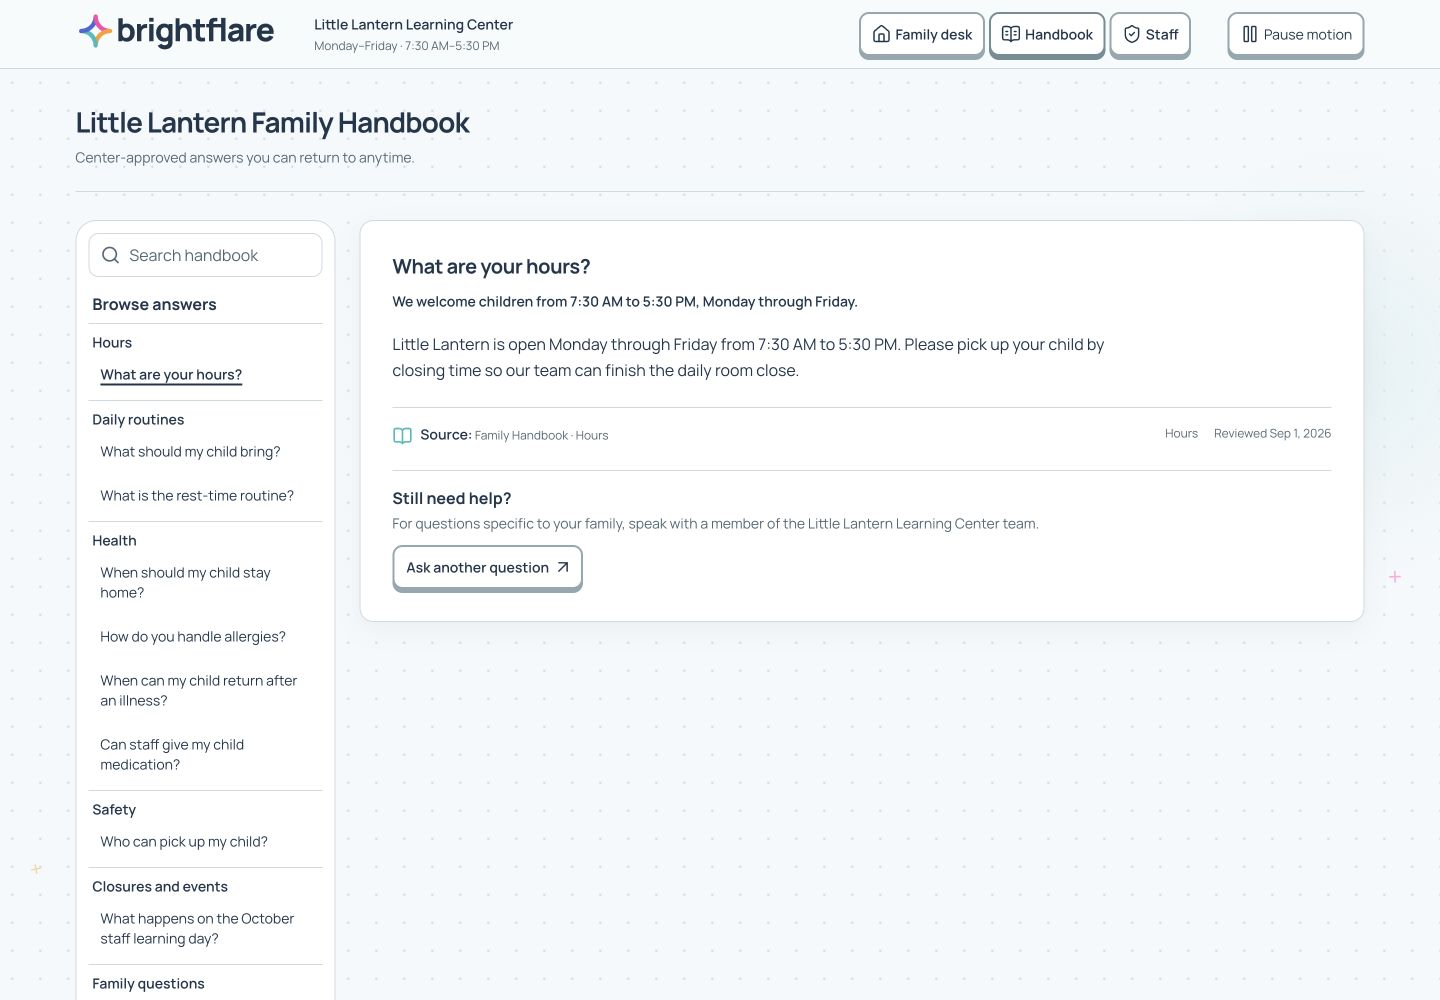
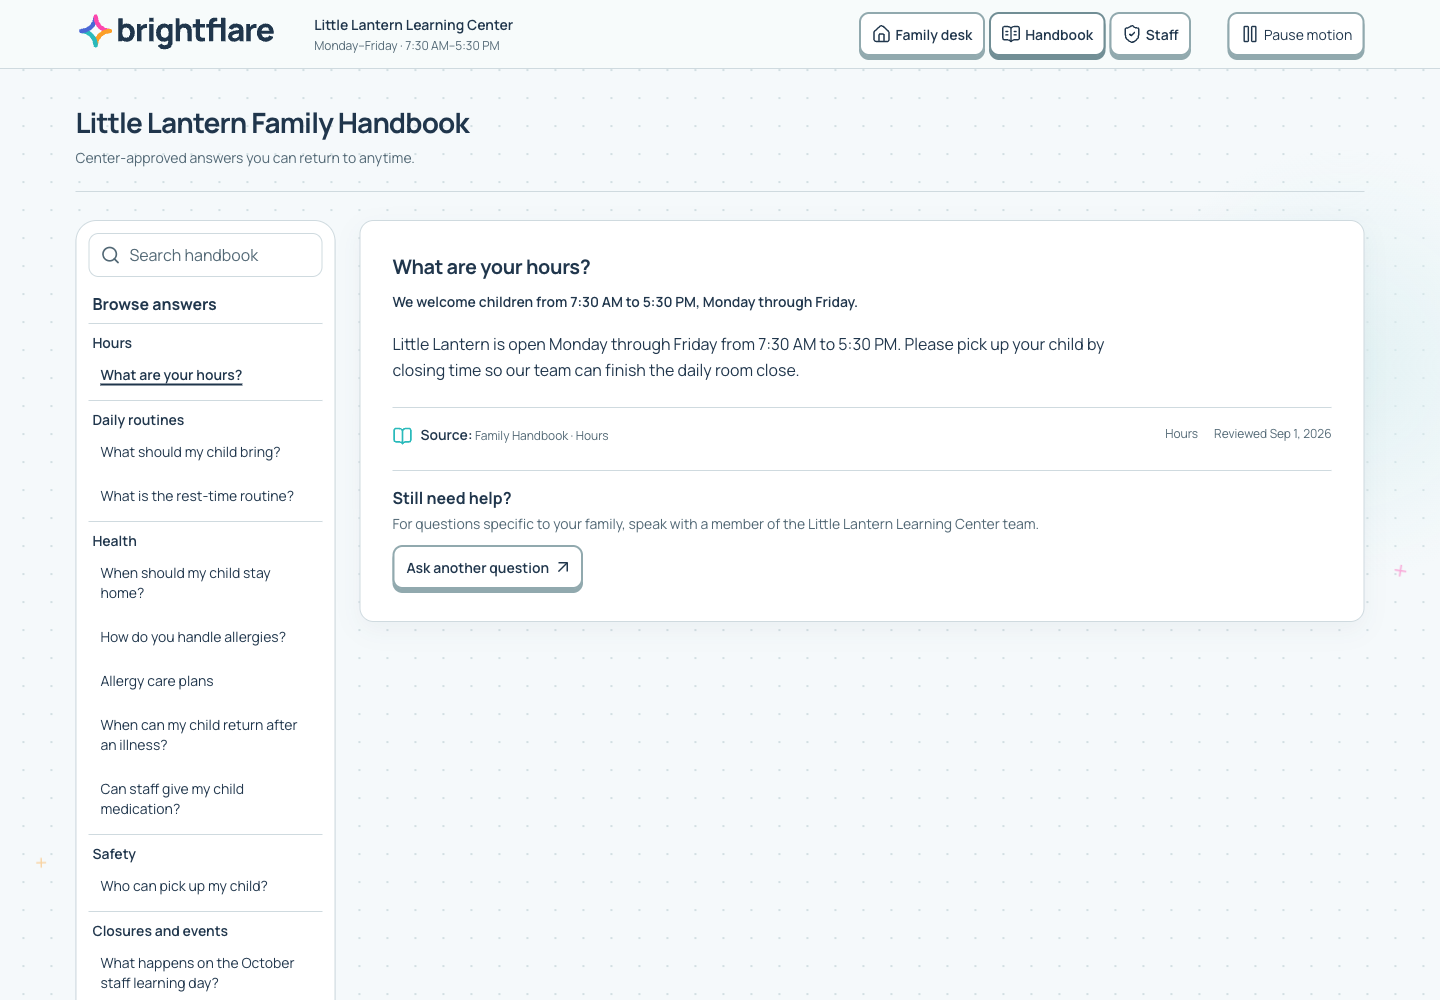
Refresh README story and responsive screenshots

diff --git a/README.md b/README.md
@@ -2,7 +2,7 @@
   <img src="public/assets/brightflare-logo-full.svg" alt="brightflare" width="360" />
 </p>
 
-**A calmer front desk for childcare families.** brightflare answers routine questions from a center-approved handbook, shows families where an answer came from, and gives staff a clear path to review the questions the handbook could not resolve.
+**A calmer front desk for childcare families.** I designed brightflare for parents using the center’s shared iPad and staff maintaining trusted answers. At the front desk, the first screen keeps common questions in view without unnecessary scrolling; parents can open approved FAQs or ask something new, then clear the session for the next family. Staff see public question trends and gaps, improve approved guidance, and choose which answers to feature.
 
 **Try it:** [Family front desk](https://brightflare.sprioleau.dev/) · [Family handbook](https://brightflare.sprioleau.dev/handbook) · [Staff workspace](https://brightflare.sprioleau.dev/admin)
 
@@ -14,38 +14,43 @@
 
 ### Family desk
 
-![brightflare family desk on desktop](https://brightflare.sprioleau.dev/screenshots/parent-desktop.png?v=20260924-polish)
+![brightflare family desk on desktop](https://brightflare.sprioleau.dev/screenshots/parent-desktop.png?v=20260924-final)
 
-![brightflare family desk on a phone](https://brightflare.sprioleau.dev/screenshots/parent-mobile.png?v=20260924-polish)
+<p align="left">
+  <img src="https://brightflare.sprioleau.dev/screenshots/parent-mobile.png?v=20260924-final" alt="brightflare family desk on a phone with responsive menu closed" width="280" />
+  <img src="https://brightflare.sprioleau.dev/screenshots/parent-mobile-menu.png?v=20260924-final" alt="brightflare family desk on a phone with responsive navigation open" width="280" />
+</p>
 
 ### Staff workspace
 
-![brightflare staff dashboard](https://brightflare.sprioleau.dev/screenshots/admin-dashboard.png?v=20260924-polish)
+![brightflare staff dashboard](https://brightflare.sprioleau.dev/screenshots/admin-dashboard.png?v=20260924-final)
 
 ### Family handbook
 
-![brightflare family handbook](https://brightflare.sprioleau.dev/screenshots/handbook-desktop.png?v=20260924-polish)
+![brightflare family handbook](https://brightflare.sprioleau.dev/screenshots/handbook-desktop.png?v=20260924-final)
 
 These captures show the current app. Any standalone HTML style explorations are design proposals and are not part of the live interface.
 
 ## How it helps
 
-- **Families get a useful first answer.** Popular questions expand fully in their own cards. New questions and follow-ups stay together in a conversation with handbook sources and review dates. Clear chat starts a fresh session for the next family.
-- **The app says when it does not know.** Missing, unclear, or sensitive policy questions go to staff instead of being guessed. Dated center updates can clarify a general handbook policy for a specific period.
+- **Families get a useful first answer.** Approved common questions are available on the shared iPad without an AI call. New questions and follow-ups stay together in a conversation. Supported answers link to a handbook or staff-approved source and show its review date; Clear chat starts a fresh session for the next family.
+- **The app says when it does not know.** Missing, unclear, or sensitive policy questions go to staff instead of being guessed or shown with an unsupported source. Dated center updates can clarify a general handbook policy for a specific period, while future and expired records stay out of current guidance.
 - **The handbook works on a phone.** Families can browse published sections, open direct links, and follow a source citation from an answer to the relevant section. Staff can search handbook records in Admin, and the answer service can search approved records when grounding a reply.
-- **Staff see what needs attention.** Admin shows recent questions, groups recurring topics, and highlights gaps or stale answers. Counts represent question events and anonymous sessions, not identified families.
-- **Staff keep control of policy.** The assistant prepares sourced drafts for review. Staff can edit, publish, or dismiss them; it never changes the handbook on its own.
+- **Staff see what needs attention.** Admin automatically groups public questions into trends and surfaces unanswered policy gaps or stale guidance. Counts represent question events and anonymous sessions, not identified families.
+- **Staff keep control of policy.** Staff can answer recurring questions and edit or approve handbook content; the assistant never changes policy on its own. Staff-approved answers can become candidates for featured home FAQs, and staff choose featured questions, announcements, and center details.
 - **Private child questions stay private.** The shared desk directs unverified child-specific questions to staff. The backend also supports verified access to fictional family records, excludes private wording from public topic analytics, and clears private responses after a short period or when the tab is hidden.
 
 ## The prototype
 
-The parent desk is designed for a landscape tablet and adapts to phones. It keeps the question form, answer, center hours, and featured questions together. The staff workspace supports handbook review, seasonal featured answers, announcements, center details, and writing guidance for generated drafts.
+The parent desk is designed for the center’s shared landscape iPad and adapts to phones, which scroll naturally on smaller screens. Parents can see the question form, center hours, and featured questions together. Staff use the workspace to review questions, maintain approved answers, and manage featured content, announcements, and center details.
 
-The source of truth is the center's structured handbook in Convex. The final answer cites retrieved source records, and the server checks those citations before presenting it as verified. Eligible routine answers may stream first as clearly labeled drafts without source links. The final answer replaces the draft only after citation checks pass; sensitive questions and handoffs do not stream draft answer text. Requests have an eight-second deadline, with progress messages and a clear retry or staff handoff when the service cannot respond in time.
+The source of truth is center-approved guidance: handbook entries, dated center updates, and staff-published answers. Final supported answers link to retrieved records and show their review dates; the server checks citations before presenting an answer as verified. Eligible routine answers may first stream as clearly labeled drafts without source links. The verified answer replaces the draft only after citation checks pass; sensitive questions and staff handoffs never stream draft answer text. Requests have an eight-second deadline, with progress messages and a retry or staff handoff if the service cannot respond in time.
 
-The experience uses ShadCN components with amber primary actions, outlined buttons with playful depth, and clear white reading surfaces. Animated dots and small interactions support the task while keeping policy and provenance easy to scan; motion can be paused.
+I drew visual inspiration from my earlier projects [teeny.fun](https://teeny.fun/), with its playful neubrutalist depth, and [2cents.dev](https://2cents.dev/), with its moving-dot background. I adapted those ideas with amber actions, calm reading surfaces, clear source labels, and motion that can be paused for a trustworthy childcare setting.
 
 ## Demo access
+
+Gemini inference uses free-tier accounts and may be rate-limited. OpenRouter fallback is implemented but remains inactive by default while a reliable model for both parent answers and staff assistance is being verified.
 
 - Staff workspace: open `/admin` and use the demo credential configured for the environment.
 - The backend family verification flow uses an environment-configured demo credential and a fictional family record. The shared desk currently has no family PIN entry screen and routes those questions to staff.
@@ -54,7 +59,7 @@ Demo credentials are not a production authentication scheme. Credentials are con
 
 ## Run locally
 
-Use Node.js 22+ and pnpm. Configure `NEXT_PUBLIC_CONVEX_URL`, `BRIGHTFLARE_SERVER_SECRET`, `BRIGHTFLARE_SESSION_SECRET`, `BRIGHTFLARE_ADMIN_PIN`, and `BRIGHTFLARE_FAMILY_PIN` in `.env.local`. For direct Gemini inference, also set `GOOGLE_GENERATIVE_AI_API_KEY`; Vercel AI Gateway credentials can be used instead. The default model is `gemini-3.5-flash-lite` and can be changed with `GEMINI_MODEL_ID`. Following the working Flock configuration, `gemini-3.6-flash` falls back to `gemini-3.5-flash-lite`; configured Flash-Lite can fall back to `gemini-3.5-flash`. OpenRouter fallback is inactive by default. To opt in, set `OPENROUTER_FALLBACK_ENABLED=true`, `OPENROUTER_API_KEY`, and an explicit `OPENROUTER_MODEL_ID` that has been verified for the required structured output and tools. It runs only after Gemini and its existing alternate fail from capacity, quota, or the bounded attempt timeout. Parent answers reserve time within the original eight-second deadline, then validate structured output and approved-source citations as usual. Parent answers use minimal thinking and the supplied approved source text before using source tools.
+Use Node.js 22+ and pnpm. Configure `NEXT_PUBLIC_CONVEX_URL`, `BRIGHTFLARE_SERVER_SECRET`, `BRIGHTFLARE_SESSION_SECRET`, `BRIGHTFLARE_ADMIN_PIN`, and `BRIGHTFLARE_FAMILY_PIN` in `.env.local`. For direct Gemini inference, also set `GOOGLE_GENERATIVE_AI_API_KEY`; Vercel AI Gateway credentials can be used instead. The default model is `gemini-3.5-flash-lite` and can be changed with `GEMINI_MODEL_ID`. Following the working Flock configuration, `gemini-3.6-flash` falls back to `gemini-3.5-flash-lite`; configured Flash-Lite can fall back to `gemini-3.5-flash`. To opt in after selecting a verified model, set `OPENROUTER_FALLBACK_ENABLED=true`, `OPENROUTER_API_KEY`, and an explicit `OPENROUTER_MODEL_ID` that has been verified for the required structured output and tools. It runs only after Gemini and its existing alternate fail from capacity, quota, or the bounded attempt timeout. Parent answers reserve time within the original eight-second deadline, then validate structured output and approved-source citations as usual. Parent answers use minimal thinking and the supplied approved source text before using source tools.
 
 ```bash
 pnpm install
